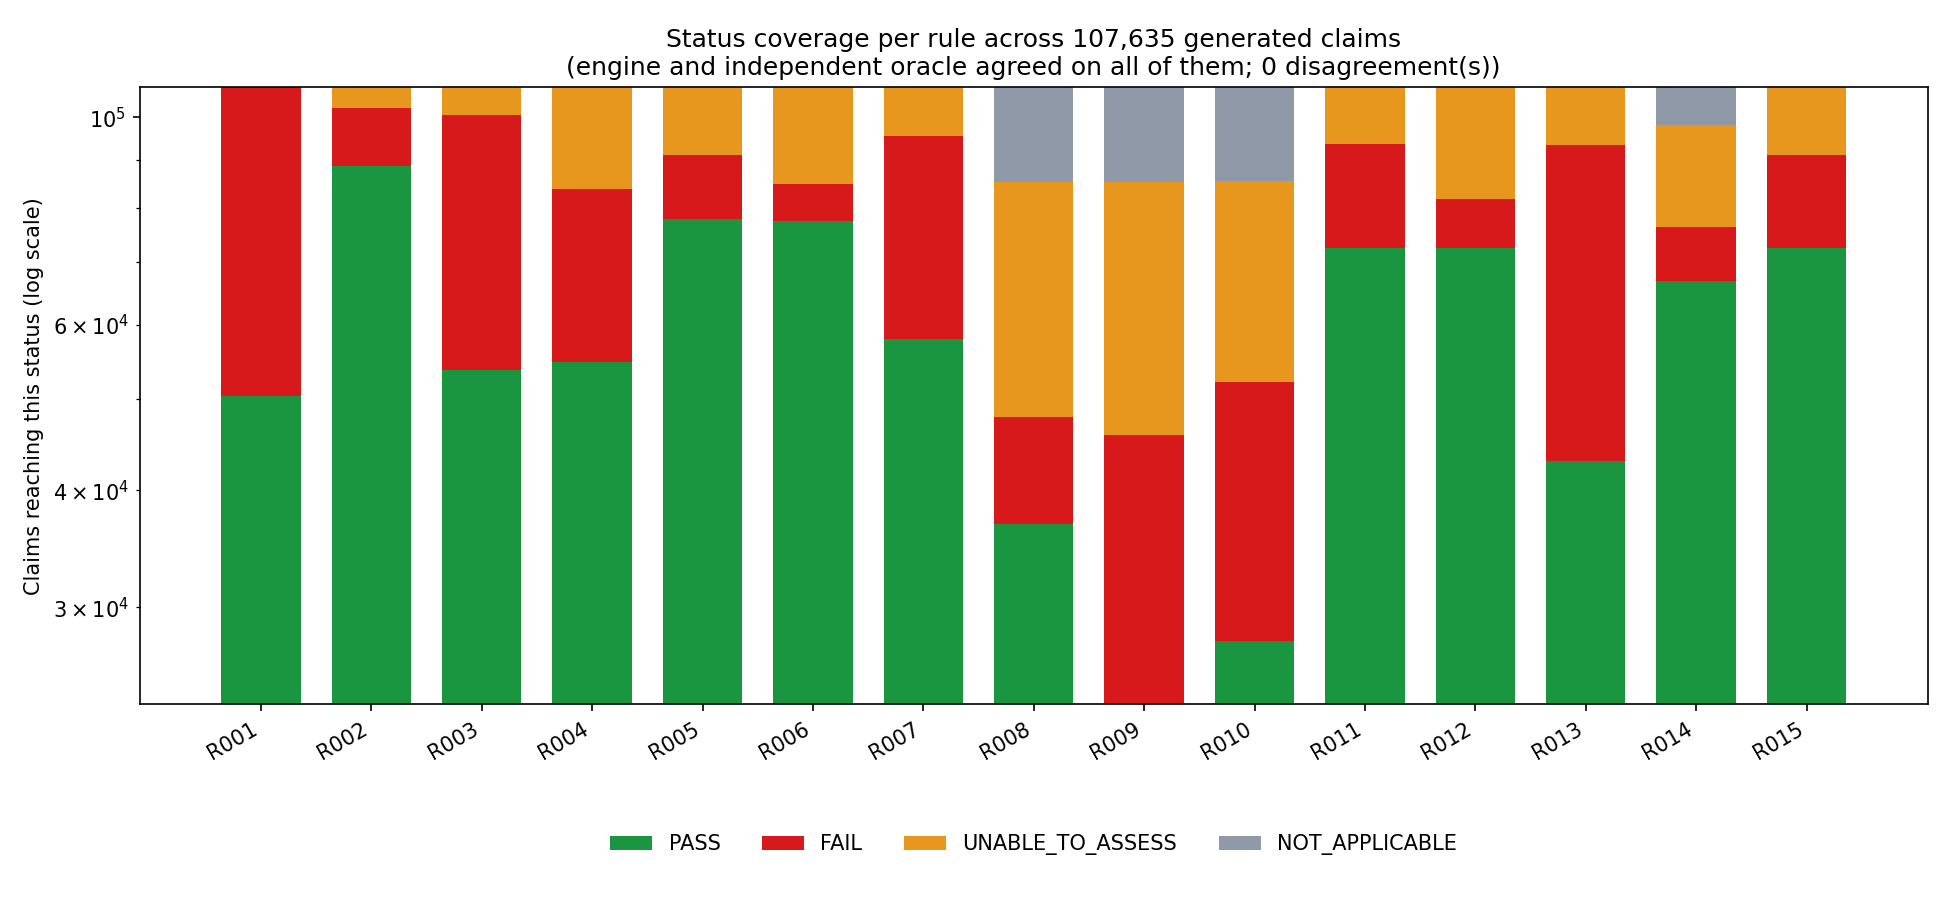
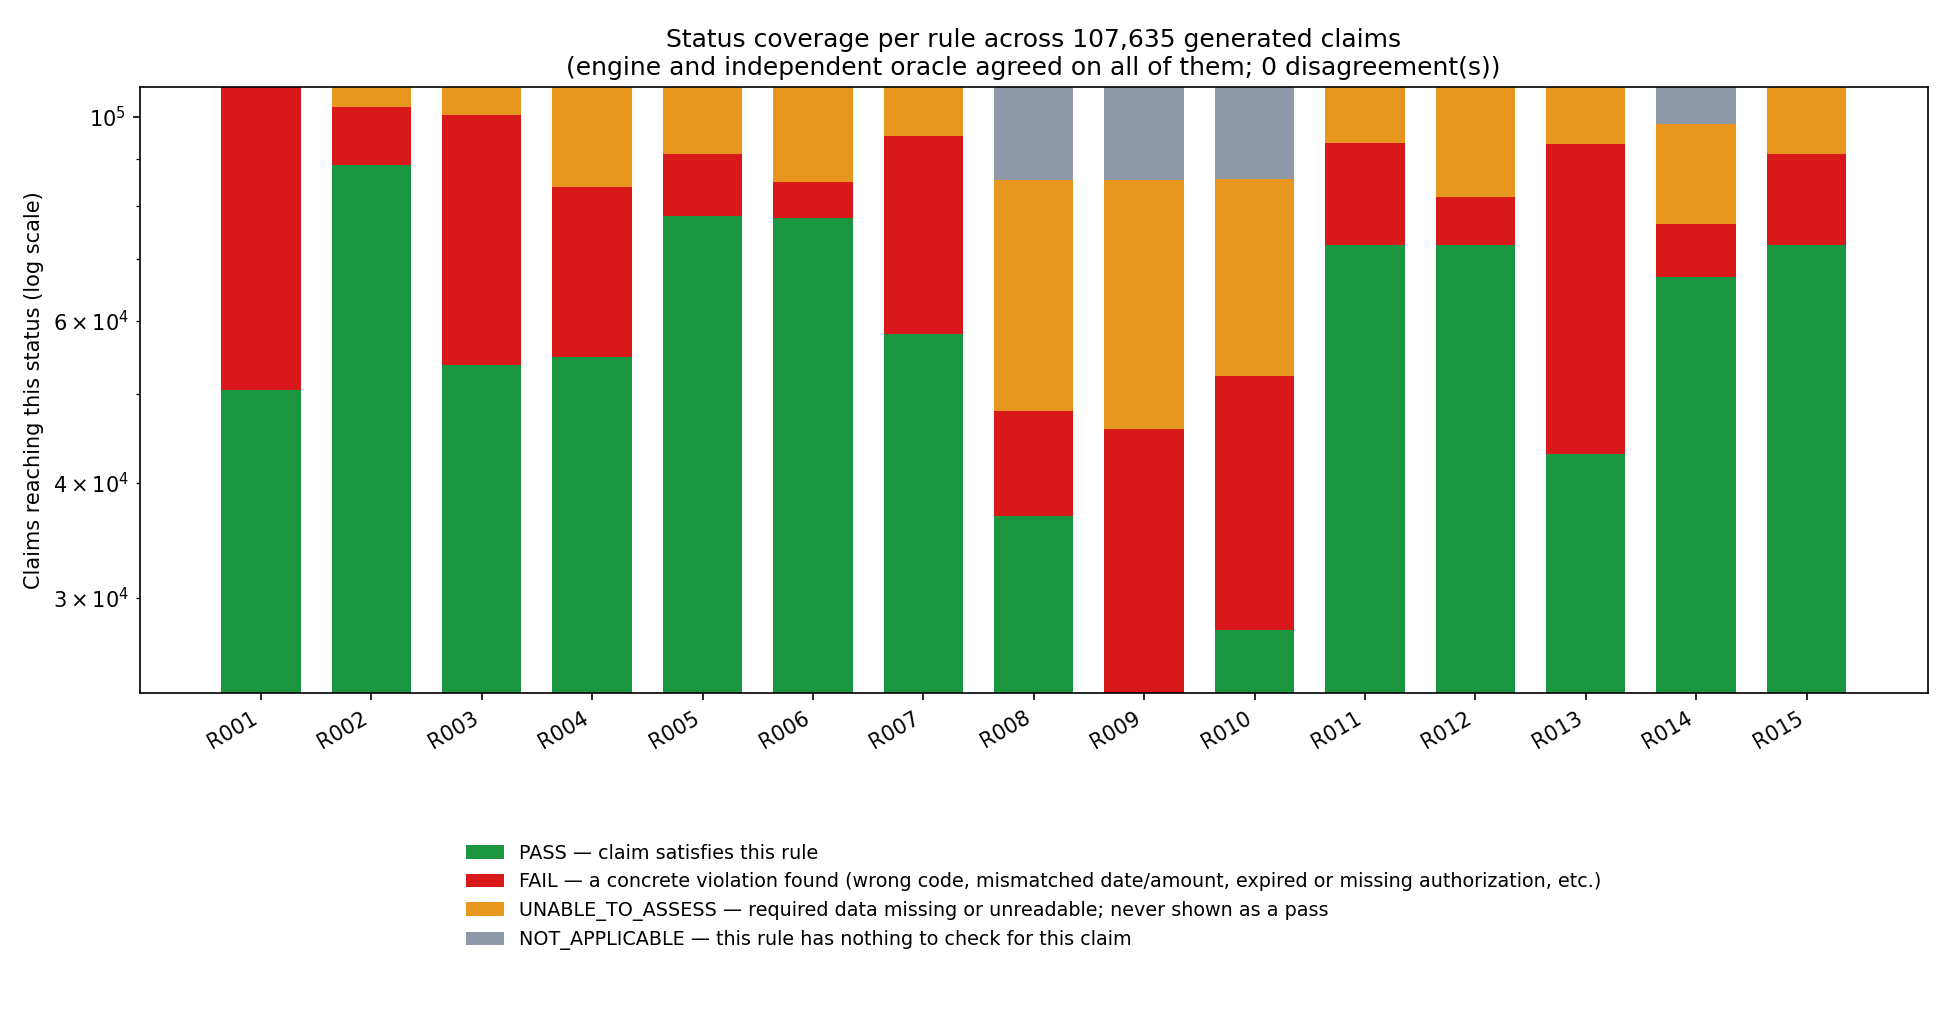
docs: spell out what each status means in the status-coverage legend
FAIL on its own reads as ambiguous (an engine error vs. a real finding); the
legend now says FAIL is a concrete violation (wrong code, mismatched date or
amount, expired/missing authorization), UNABLE_TO_ASSESS is missing data that
is never shown as a pass, and NOT_APPLICABLE is a rule with nothing to check.

Claude-Session: https://claude.ai/code/session_014PKvhRxuQEnpK9grqMXCFH

diff --git a/scripts/status_coverage.py b/scripts/status_coverage.py
@@ -35,6 +35,12 @@ from yara_engine import evaluate  # noqa: E402
 
 STATUSES = ('PASS', 'FAIL', 'UNABLE_TO_ASSESS', 'NOT_APPLICABLE')
 COLORS = {'PASS': '#1a9641', 'FAIL': '#d7191c', 'UNABLE_TO_ASSESS': '#e8971e', 'NOT_APPLICABLE': '#9099a8'}
+LEGEND = {
+    'PASS': 'PASS — claim satisfies this rule',
+    'FAIL': 'FAIL — a concrete violation found (wrong code, mismatched date/amount, expired or missing authorization, etc.)',
+    'UNABLE_TO_ASSESS': 'UNABLE_TO_ASSESS — required data missing or unreadable; never shown as a pass',
+    'NOT_APPLICABLE': 'NOT_APPLICABLE — this rule has nothing to check for this claim',
+}
 
 
 def run(n_claims, seed):
@@ -91,19 +97,19 @@ def draw_chart(payload, out_path):
     import matplotlib.pyplot as plt
 
     rule_ids = sorted(payload['counts'])
-    fig, ax = plt.subplots(figsize=(13, 6))
+    fig, ax = plt.subplots(figsize=(13, 6.8))
     bottoms = [0.0] * len(rule_ids)
     for status in STATUSES:
         heights = [max(payload['counts'][rid][status], 0) for rid in rule_ids]
         # a zero-height segment on a log-scale stacked bar draws nothing, which is the point: a
         # missing color band at a glance means "never reached this status in this run".
-        ax.bar(rule_ids, heights, bottom=bottoms, color=COLORS[status], label=status, width=0.72)
+        ax.bar(rule_ids, heights, bottom=bottoms, color=COLORS[status], label=LEGEND[status], width=0.72)
         bottoms = [b + h for b, h in zip(bottoms, heights)]
     ax.set_yscale('log')
     ax.set_ylabel('Claims reaching this status (log scale)')
     ax.set_title(f"Status coverage per rule across {payload['claims_scored']:,} generated claims\n"
                  f"(engine and independent oracle agreed on all of them; {payload['engine_oracle_mismatches']} disagreement(s))")
-    ax.legend(loc='upper center', bbox_to_anchor=(0.5, -0.18), ncol=4, frameon=False)
+    ax.legend(loc='upper center', bbox_to_anchor=(0.5, -0.22), ncol=1, frameon=False, fontsize=9.2, alignment='left')
     plt.xticks(rotation=30, ha='right')
     fig.tight_layout()
     out_path.parent.mkdir(parents=True, exist_ok=True)
